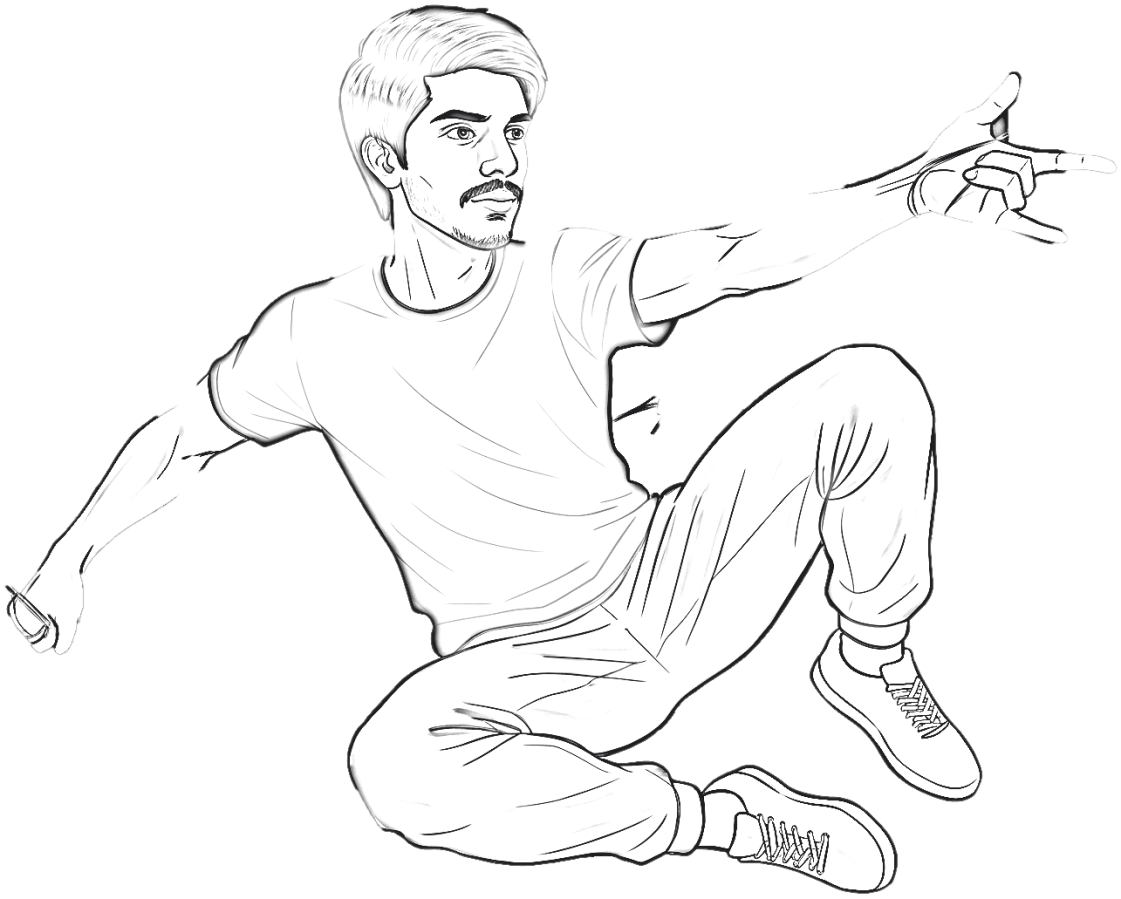
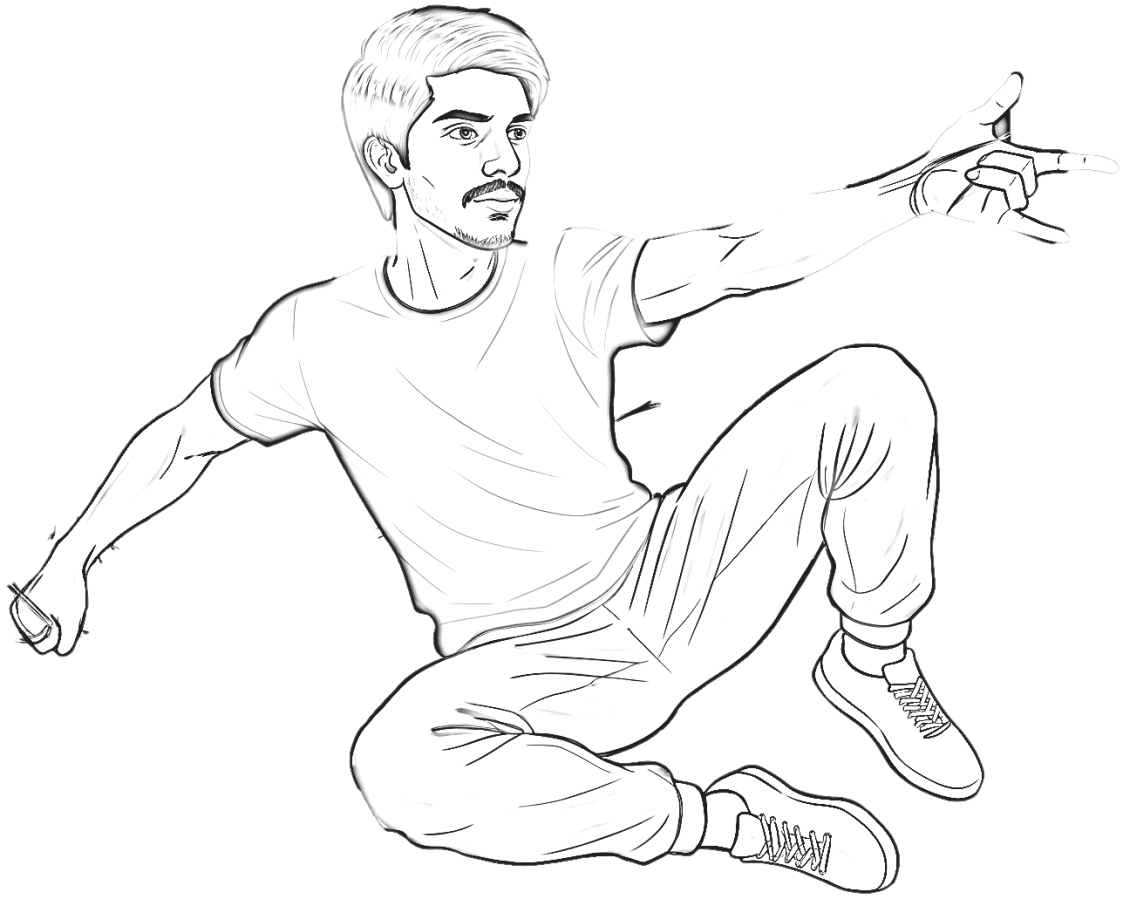
feat: fixed character glitch

diff --git a/Frontend/src/components/HeroSection.css b/Frontend/src/components/HeroSection.css
@@ -51,14 +51,61 @@
 .hc__l--base { animation: hc-in 0.7s ease-out backwards; }
 @keyframes hc-in { from { opacity: 0; } }
 
-/* the figure is traced outward from the head: white silhouette + outline */
+@property --r-head { syntax: '<percentage>'; inherits: false; initial-value: 130%; }
+@property --r-shR { syntax: '<percentage>'; inherits: false; initial-value: 130%; }
+@property --r-elR { syntax: '<percentage>'; inherits: false; initial-value: 130%; }
+@property --r-hdR { syntax: '<percentage>'; inherits: false; initial-value: 130%; }
+@property --r-tor { syntax: '<percentage>'; inherits: false; initial-value: 130%; }
+@property --r-elL { syntax: '<percentage>'; inherits: false; initial-value: 130%; }
+@property --r-fsL { syntax: '<percentage>'; inherits: false; initial-value: 130%; }
+@property --r-hip { syntax: '<percentage>'; inherits: false; initial-value: 130%; }
+@property --r-knR { syntax: '<percentage>'; inherits: false; initial-value: 130%; }
+@property --r-pnt { syntax: '<percentage>'; inherits: false; initial-value: 130%; }
+@property --r-ftR { syntax: '<percentage>'; inherits: false; initial-value: 130%; }
+@property --r-ftL { syntax: '<percentage>'; inherits: false; initial-value: 130%; }
+
+/* the figure is traced outward from the head, following the arm, torso and legs */
 .hc__l--white, .hc__l--line {
-  --r: 150%;
-  -webkit-mask-image: radial-gradient(ellipse at 39% 13%, #000 var(--r), transparent calc(var(--r) + 7%));
-          mask-image: radial-gradient(ellipse at 39% 13%, #000 var(--r), transparent calc(var(--r) + 7%));
-  animation: hc-trace 3s cubic-bezier(.35,.1,.4,1) 0.4s backwards;
+  -webkit-mask-image:
+    radial-gradient(ellipse 34% 40% at 39.4% 13.5%, #000 var(--r-head), transparent calc(var(--r-head) + 12%)),
+    radial-gradient(ellipse 34% 40% at 57.5% 31.3%, #000 var(--r-shR), transparent calc(var(--r-shR) + 12%)),
+    radial-gradient(ellipse 34% 40% at 73% 26.5%, #000 var(--r-elR), transparent calc(var(--r-elR) + 12%)),
+    radial-gradient(ellipse 34% 40% at 88.6% 16.8%, #000 var(--r-hdR), transparent calc(var(--r-hdR) + 12%)),
+    radial-gradient(ellipse 34% 40% at 43.3% 49%, #000 var(--r-tor), transparent calc(var(--r-tor) + 12%)),
+    radial-gradient(ellipse 34% 40% at 17.4% 47.4%, #000 var(--r-elL), transparent calc(var(--r-elL) + 12%)),
+    radial-gradient(ellipse 34% 40% at 3% 68.4%, #000 var(--r-fsL), transparent calc(var(--r-fsL) + 12%)),
+    radial-gradient(ellipse 34% 40% at 55% 68.4%, #000 var(--r-hip), transparent calc(var(--r-hip) + 12%)),
+    radial-gradient(ellipse 34% 40% at 78.3% 42.6%, #000 var(--r-knR), transparent calc(var(--r-knR) + 12%)),
+    radial-gradient(ellipse 34% 40% at 43.3% 79.9%, #000 var(--r-pnt), transparent calc(var(--r-pnt) + 12%)),
+    radial-gradient(ellipse 34% 40% at 80.9% 79.9%, #000 var(--r-ftR), transparent calc(var(--r-ftR) + 12%)),
+    radial-gradient(ellipse 34% 40% at 71.8% 92.9%, #000 var(--r-ftL), transparent calc(var(--r-ftL) + 12%));
+          mask-image:
+    radial-gradient(ellipse 34% 40% at 39.4% 13.5%, #000 var(--r-head), transparent calc(var(--r-head) + 12%)),
+    radial-gradient(ellipse 34% 40% at 57.5% 31.3%, #000 var(--r-shR), transparent calc(var(--r-shR) + 12%)),
+    radial-gradient(ellipse 34% 40% at 73% 26.5%, #000 var(--r-elR), transparent calc(var(--r-elR) + 12%)),
+    radial-gradient(ellipse 34% 40% at 88.6% 16.8%, #000 var(--r-hdR), transparent calc(var(--r-hdR) + 12%)),
+    radial-gradient(ellipse 34% 40% at 43.3% 49%, #000 var(--r-tor), transparent calc(var(--r-tor) + 12%)),
+    radial-gradient(ellipse 34% 40% at 17.4% 47.4%, #000 var(--r-elL), transparent calc(var(--r-elL) + 12%)),
+    radial-gradient(ellipse 34% 40% at 3% 68.4%, #000 var(--r-fsL), transparent calc(var(--r-fsL) + 12%)),
+    radial-gradient(ellipse 34% 40% at 55% 68.4%, #000 var(--r-hip), transparent calc(var(--r-hip) + 12%)),
+    radial-gradient(ellipse 34% 40% at 78.3% 42.6%, #000 var(--r-knR), transparent calc(var(--r-knR) + 12%)),
+    radial-gradient(ellipse 34% 40% at 43.3% 79.9%, #000 var(--r-pnt), transparent calc(var(--r-pnt) + 12%)),
+    radial-gradient(ellipse 34% 40% at 80.9% 79.9%, #000 var(--r-ftR), transparent calc(var(--r-ftR) + 12%)),
+    radial-gradient(ellipse 34% 40% at 71.8% 92.9%, #000 var(--r-ftL), transparent calc(var(--r-ftL) + 12%));
+  animation: hc-t-head 1.3s ease-out 0.4s backwards, hc-t-shR 1.3s ease-out 0.75s backwards, hc-t-elR 1.3s ease-out 1.1s backwards, hc-t-hdR 1.3s ease-out 1.5s backwards, hc-t-tor 1.3s ease-out 0.95s backwards, hc-t-elL 1.3s ease-out 1.4s backwards, hc-t-fsL 1.3s ease-out 1.8s backwards, hc-t-hip 1.3s ease-out 1.5s backwards, hc-t-knR 1.3s ease-out 1.9s backwards, hc-t-pnt 1.3s ease-out 2.1s backwards, hc-t-ftR 1.3s ease-out 2.5s backwards, hc-t-ftL 1.3s ease-out 2.7s backwards;
 }
-@keyframes hc-trace { from { --r: -8%; } }
+@keyframes hc-t-head { from { --r-head: -14%; } }
+@keyframes hc-t-shR { from { --r-shR: -14%; } }
+@keyframes hc-t-elR { from { --r-elR: -14%; } }
+@keyframes hc-t-hdR { from { --r-hdR: -14%; } }
+@keyframes hc-t-tor { from { --r-tor: -14%; } }
+@keyframes hc-t-elL { from { --r-elL: -14%; } }
+@keyframes hc-t-fsL { from { --r-fsL: -14%; } }
+@keyframes hc-t-hip { from { --r-hip: -14%; } }
+@keyframes hc-t-knR { from { --r-knR: -14%; } }
+@keyframes hc-t-pnt { from { --r-pnt: -14%; } }
+@keyframes hc-t-ftR { from { --r-ftR: -14%; } }
+@keyframes hc-t-ftL { from { --r-ftL: -14%; } }
 
 /* pencil scribble over hair, shirt and trousers (swept top to bottom) */
 .hc__l--hatch {
@@ -213,6 +260,32 @@
 .hc__char:hover .hc__tip,
 .hc__char:focus-visible .hc__tip,
 .hc__egg:hover .hc__tip { opacity: 1; }
+
+/* ── Card captions (live text printed on the paper cards) ── */
+.hc__lab {
+  position: absolute;
+  inset: 0;
+  display: flex;
+  align-items: center;
+  justify-content: center;
+  padding: 0 7%;
+  text-align: center;
+  font: 700 calc(1.5cqw * min(1, 8 / var(--n, 8))) / 1.12 'Space Grotesk', 'Plus Jakarta Sans', system-ui, sans-serif;
+  letter-spacing: 0.02em;
+  text-transform: uppercase;
+  text-wrap: balance;
+  color: #2c2a3a;
+  pointer-events: none;
+  overflow: hidden;
+  animation: hc-fill 0.8s ease-out 0.4s backwards;
+}
+.hc__lab--pill {
+  color: #c4474c;
+  font-weight: 800;
+  font-style: italic;
+  letter-spacing: 0.04em;
+  text-shadow: 0 0 0 #1e1e24, 1px 1px 0 #1e1e24, -1px -1px 0 #1e1e24, 1px -1px 0 #1e1e24, -1px 1px 0 #1e1e24;
+}
 
 /* ── Phone chips ────────────────────────────────────────── */
 .hc-chips { display: none; }

diff --git a/Frontend/src/components/HeroSection.tsx b/Frontend/src/components/HeroSection.tsx
@@ -41,6 +41,12 @@ interface Skill {
 }
 
 /**
+ * EDIT YOUR SKILLS HERE.
+ * - `label`: the text printed on the paper card (use short names, 1-3 words; it is drawn as live text)
+ * - `description`: shown in the popup when the card is clicked
+ * - `work`: your projects for that skill (title, tag, optional link)
+ * You can rename the cards freely; to add or remove a card you also need to move/copy a hotspot box (l, t, w, h, rot).
+ *
  * Add your real work here. Categories with no items show a "get in touch" state
  * instead of made-up numbers.
  */
@@ -210,6 +216,9 @@ export const HeroSection: React.FC = () => {
             onClick={() => setOpen(s)}
             aria-label={`View ${s.label} work`}
           >
+            <span className={`hc__lab${s.pill ? ' hc__lab--pill' : ''}`} style={css({ '--n': Math.max(...s.label.split(' ').map((w) => w.length)) })}>
+              {s.label}
+            </span>
             <span className="hc__tip">Click to explore {s.label.toLowerCase()}</span>
           </button>
         ))}
